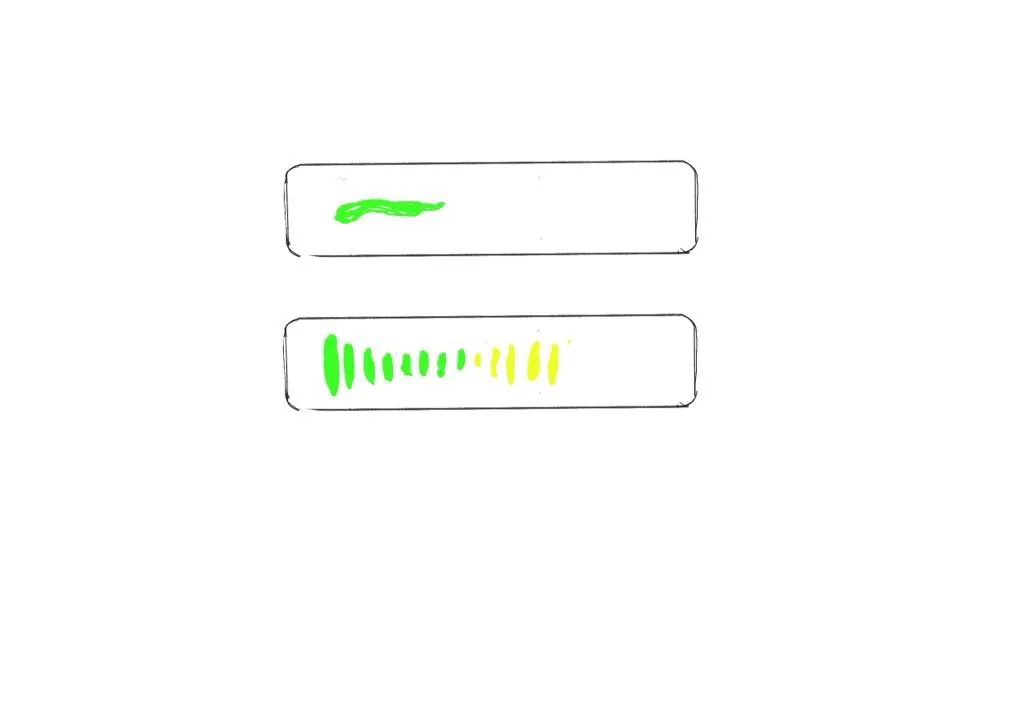
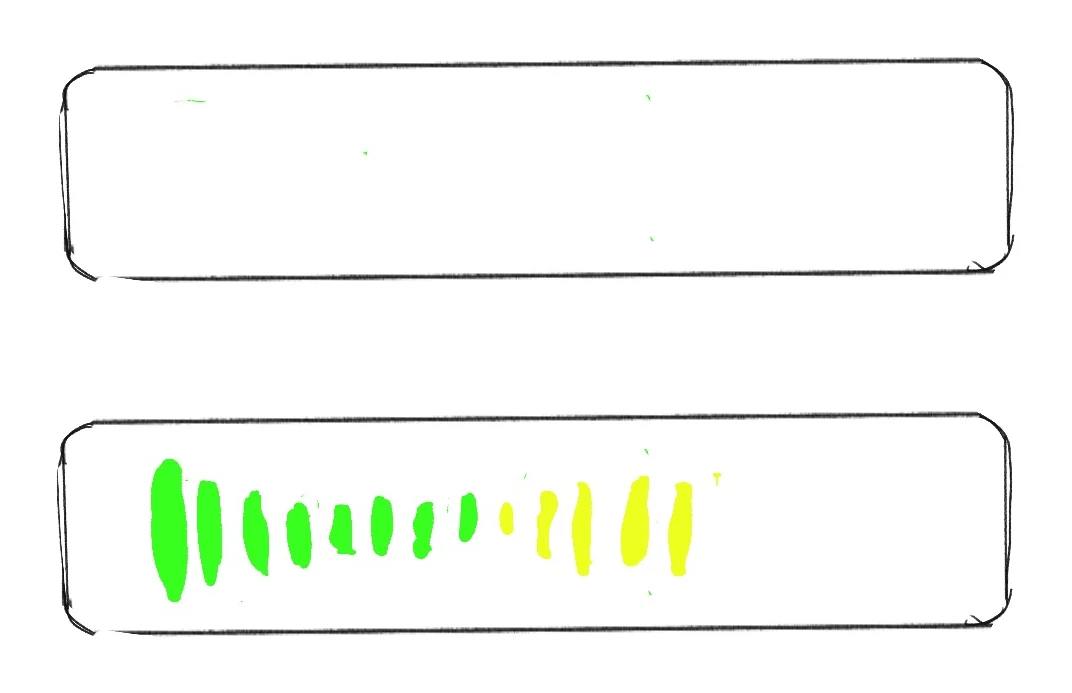
畢製頁:收掉過大的圖、修草圖的處理方式、把線上版拉出來
線上版連結
  原本只是 facts 表最後一行,字級跟「Type」「Year」一樣小,不會有人注意到。
  但那個站是他們自己做的,是作品的一部分,不是附註。
  拉出來做成一條橫幅:細線 + 藍字,不做填色按鈕 ——
  整頁沒有任何實心色塊,加一顆會像外來的元件。
  ⚠ --line / --blue 這兩個變數不存在(我憑印象寫的)。
     正確的是線用 --blue-line、字用 --slate。

sketch-02 改成照片處理
  它是數位草圖,底是整片淡紫,不是紙上的線稿。
  plate--drawing 會墊紙色暈開 + 走掃描式描繪進場,那是為透明線稿設計的,
  套在有底的圖上會跟旁邊那張真線稿打架。改用 plate--render。

visual-bars 重裁
  線條只佔畫面 41% x 35%,其餘全是空白 —— 所以看起來空空的。
  從 2360x1640 的原檔(_source/process/IMG_0136.JPG)重裁到內容邊界,
  並把掃描的灰底拉乾淨。1024x712 → 1072x693,而且更清楚。

拿掉 modeling.webp
  拍螢幕的照片,Zakk 兩次說很醜。它旁邊就是同一支號誌的正式渲染圖,
  放一張翻拍的 Rhino 視窗只會拉低整段。
  檔案保留 —— 首頁 How I work 的縮圖列還在用。

review 改成三分之一欄
  直式照片配半欄,限高之後右邊會空掉一整塊。
  收窄之後那片留白讀起來是版面邊距,不是漏掉的東西。

diff --git a/works/traffic/index.html b/works/traffic/index.html
@@ -11,7 +11,7 @@
   <link rel="preload" href="../../assets/3d/dragon.webp" as="image" type="image/webp">
 
   <link rel="stylesheet" href="../../css/style.css?v=183">
-  <link rel="stylesheet" href="../../css/work.css?v=49">
+  <link rel="stylesheet" href="../../css/work.css?v=51">
 </head>
 
 <body>
@@ -51,6 +51,17 @@
         <span class="work-lede-zh" lang="zh-Hant">一支有動態螢幕、能藍芽連線應變中心的號誌,成本一定會高,材質也要防水。我負責的是號誌本體 —— 怎麼裝得上去、打得開、換得掉。</span>
       </p>
 
+      <!-- 🔴 線上版拉出來單獨放。原本只是 facts 表格最後一行,
+           字級跟「Type」「Year」一樣小,看的人不會注意到 ——
+           但那個站是他們自己做的,是這件作品的一部分,不是附註。
+           (Zakk:「還可以再強調我們做的網址」) -->
+      <p class="work-live reveal" style="--delay: 170ms">
+        <span class="work-live__k">Live site</span>
+        <a class="work-live__a" href="https://cyd2025.framer.website"
+           target="_blank" rel="noopener">cyd2025.framer.website <i aria-hidden="true">&nearr;</i></a>
+        <span class="work-live__zh" lang="zh-Hant">線上版也是我們自己做的</span>
+      </p>
+
       <dl class="facts reveal" style="--delay: 200ms">
         <div class="facts__row">
           <dt class="facts__k">Type</dt>
@@ -72,10 +83,6 @@
         <div class="facts__row">
           <dt class="facts__k">Submitted to</dt>
           <dd class="facts__v">iF Design Student Award &middot; Red Dot Design Concept</dd>
-        </div>
-        <div class="facts__row">
-          <dt class="facts__k">Live site</dt>
-          <dd class="facts__v"><a href="https://cyd2025.framer.website" target="_blank" rel="noopener">cyd2025.framer.website &nearr;</a></dd>
         </div>
       </dl>
     </section>
@@ -110,7 +117,11 @@
                alt="早期草圖:號誌立柱與可升降橫桿,綠色箭頭標示升降方向"
                width="1600" height="1113">
         </figure>
-        <figure class="plate plate--drawing plate--half reveal">
+        <!-- ⚠ 這張是**數位草圖**,底是整片淡紫,不是紙上的線稿。
+             用 plate--drawing 會墊一層紙色再暈開、進場還走掃描式描繪 ——
+             那套是為透明線稿設計的,套在有底的圖上會跟旁邊那張真線稿打架。
+             改用 plate--render(照片處理:淡底 + 對焦式進場)。 -->
+        <figure class="plate plate--render plate--half reveal">
           <img src="../../assets/works/traffic/sketch-02.webp" loading="lazy"
                alt="造型發想:數種柱體剖面與燈號配置的比較"
                width="1024" height="712">
@@ -154,14 +165,14 @@
           <figcaption class="plate__cap" lang="zh-Hant">第一版:面板四塊、上方三色燈條</figcaption>
         </figure>
 
-        <figure class="plate plate--render plate--half reveal">
-          <img src="../../assets/works/traffic/modeling.webp" loading="lazy"
-               alt="建模中的螢幕畫面:號誌的 3D 模型與燈號配置"
-               width="900" height="448">
-          <figcaption class="plate__cap" lang="zh-Hant">建模中</figcaption>
-        </figure>
+        <!-- 🔴 這裡原本放 modeling.webp(拍螢幕的照片)。拿掉了 ——
+             Zakk 兩次說它很醜,而且它旁邊就是同一支號誌的正式渲染圖,
+             一張翻拍的 Rhino 視窗在旁邊只會拉低整段的質感。
+             檔案還在 assets/,首頁的 How I work 縮圖列仍然有用到。 -->
 
-        <figure class="plate plate--render plate--half reveal">
+        <!-- 直式照片配半欄,右邊會空掉一整塊(限高之後更明顯)。
+             收成三分之一欄,那片留白就變成版面的邊距,不是漏掉的東西。 -->
+        <figure class="plate plate--render plate--third reveal">
           <img src="../../assets/works/traffic/review.webp" loading="lazy"
                alt="第一次評分:組員在展板前向老師說明"
                width="900" height="1600">

diff --git a/css/work.css b/css/work.css
@@ -200,6 +200,47 @@
 }
 
 
+/* ═══════════ 線上版連結 ═══════════
+   這件作品有一個他們自己做的網站,原本只是 facts 表裡的一行小字。
+   拉出來做成一條看得見的橫幅:左邊是標籤、中間是網址、右邊是中文註。
+   ⚠ 不做成填色按鈕 —— 整頁沒有任何實心色塊,加一顆會像外來的元件。
+      用細線 + 藍字,跟站上其他「可點的東西」同一個語彙。 */
+.work-live {
+  display: flex;
+  align-items: baseline;
+  flex-wrap: wrap;
+  gap: var(--s2) var(--s3);
+  margin: var(--s5) 0 var(--s4);
+  padding: var(--s3) 0;
+  border-top: 1px solid var(--blue-line);
+  border-bottom: 1px solid var(--hair);
+}
+.work-live__k {
+  font-family: var(--mono);
+  font-size: 11px;
+  letter-spacing: 0.16em;
+  text-transform: uppercase;
+  color: var(--slate);
+}
+.work-live__a {
+  font-size: clamp(18px, 2vw, 26px);
+  font-weight: 600;
+  letter-spacing: -0.01em;
+  color: var(--slate);
+  text-decoration: none;
+  border-bottom: 1px solid transparent;
+  transition: border-color 0.25s var(--ease);
+}
+.work-live__a i { font-style: normal; }
+.work-live__a:hover { border-bottom-color: currentColor; }
+/* ⚠ 原本用 margin-left:auto 把它推到最右邊 —— 在 1440 寬時它會離網址
+   八百多像素遠,看起來像兩件不相干的東西。跟在連結後面就好。 */
+.work-live__zh {
+  font-family: var(--han);
+  font-size: 13px;
+  color: var(--stone);
+}
+
 /* ═══════════ 圖版網格 ═══════════ */
 
 .plates {

diff --git a/works/antique/index.html b/works/antique/index.html
@@ -16,7 +16,7 @@
 
   <!-- ?v= 是快取版本號:改完 CSS/JS 記得 +1 -->
   <link rel="stylesheet" href="../../css/style.css?v=183">
-  <link rel="stylesheet" href="../../css/work.css?v=49">
+  <link rel="stylesheet" href="../../css/work.css?v=51">
 </head>
 
 <body>

diff --git a/works/catchu/index.html b/works/catchu/index.html
@@ -16,7 +16,7 @@
 
   <!-- ?v= 是快取版本號:改完 CSS/JS 記得 +1 -->
   <link rel="stylesheet" href="../../css/style.css?v=183">
-  <link rel="stylesheet" href="../../css/work.css?v=49">
+  <link rel="stylesheet" href="../../css/work.css?v=51">
 </head>
 
 <body>

diff --git a/works/dragon/index.html b/works/dragon/index.html
@@ -16,7 +16,7 @@
 
   <!-- ?v= 是快取版本號:改完 CSS/JS 記得 +1 -->
   <link rel="stylesheet" href="../../css/style.css?v=183">
-  <link rel="stylesheet" href="../../css/work.css?v=49">
+  <link rel="stylesheet" href="../../css/work.css?v=51">
 </head>
 
 <body>

diff --git a/works/elderly/index.html b/works/elderly/index.html
@@ -16,7 +16,7 @@
 
   <!-- ?v= 是快取版本號:改完 CSS/JS 記得 +1 -->
   <link rel="stylesheet" href="../../css/style.css?v=183">
-  <link rel="stylesheet" href="../../css/work.css?v=49">
+  <link rel="stylesheet" href="../../css/work.css?v=51">
 </head>
 
 <body>

diff --git a/works/farmily/index.html b/works/farmily/index.html
@@ -16,7 +16,7 @@
 
   <!-- ?v= 是快取版本號:改完 CSS/JS 記得 +1 -->
   <link rel="stylesheet" href="../../css/style.css?v=183">
-  <link rel="stylesheet" href="../../css/work.css?v=49">
+  <link rel="stylesheet" href="../../css/work.css?v=51">
 </head>
 
 <body>

diff --git a/works/kaxabu/index.html b/works/kaxabu/index.html
@@ -16,7 +16,7 @@
 
   <!-- ?v= 是快取版本號:改完 CSS/JS 記得 +1 -->
   <link rel="stylesheet" href="../../css/style.css?v=183">
-  <link rel="stylesheet" href="../../css/work.css?v=49">
+  <link rel="stylesheet" href="../../css/work.css?v=51">
 </head>
 
 <body>

diff --git a/works/mermaid/index.html b/works/mermaid/index.html
@@ -16,7 +16,7 @@
 
   <!-- ?v= 是快取版本號:改完 CSS/JS 記得 +1 -->
   <link rel="stylesheet" href="../../css/style.css?v=183">
-  <link rel="stylesheet" href="../../css/work.css?v=49">
+  <link rel="stylesheet" href="../../css/work.css?v=51">
 </head>
 
 <body>

diff --git a/works/sketches/index.html b/works/sketches/index.html
@@ -16,7 +16,7 @@
 
   <!-- ?v= 是快取版本號:改完 CSS/JS 記得 +1 -->
   <link rel="stylesheet" href="../../css/style.css?v=183">
-  <link rel="stylesheet" href="../../css/work.css?v=49">
+  <link rel="stylesheet" href="../../css/work.css?v=51">
 </head>
 
 <body>

diff --git a/works/vegic/index.html b/works/vegic/index.html
@@ -16,7 +16,7 @@
 
   <!-- ?v= 是快取版本號:改完 CSS/JS 記得 +1 -->
   <link rel="stylesheet" href="../../css/style.css?v=183">
-  <link rel="stylesheet" href="../../css/work.css?v=49">
+  <link rel="stylesheet" href="../../css/work.css?v=51">
 </head>
 
 <body>
